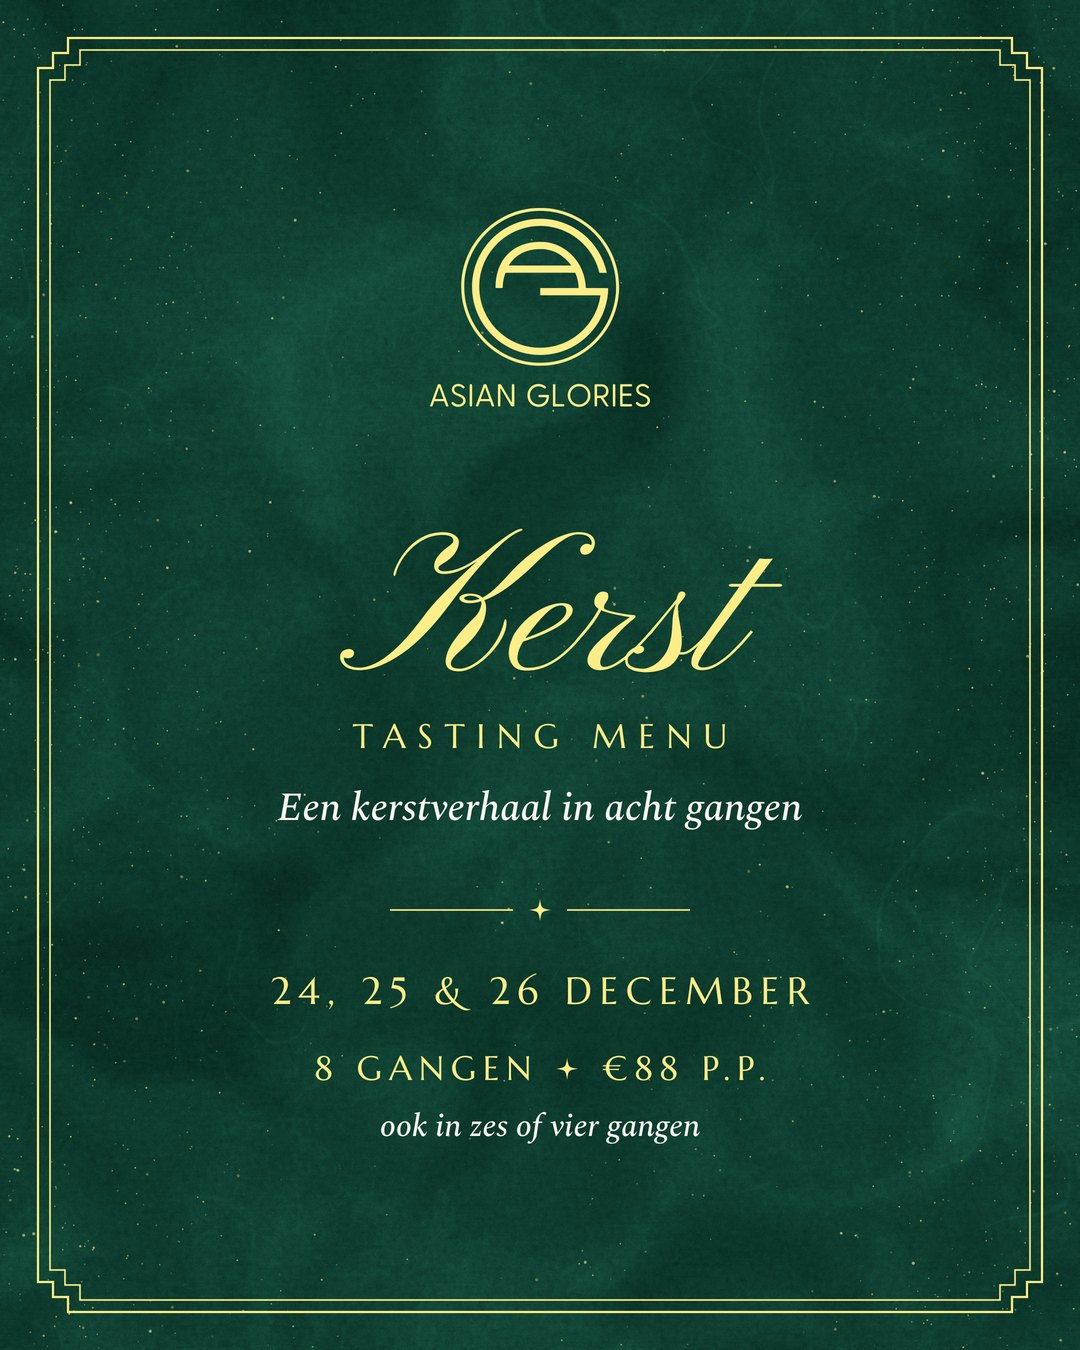
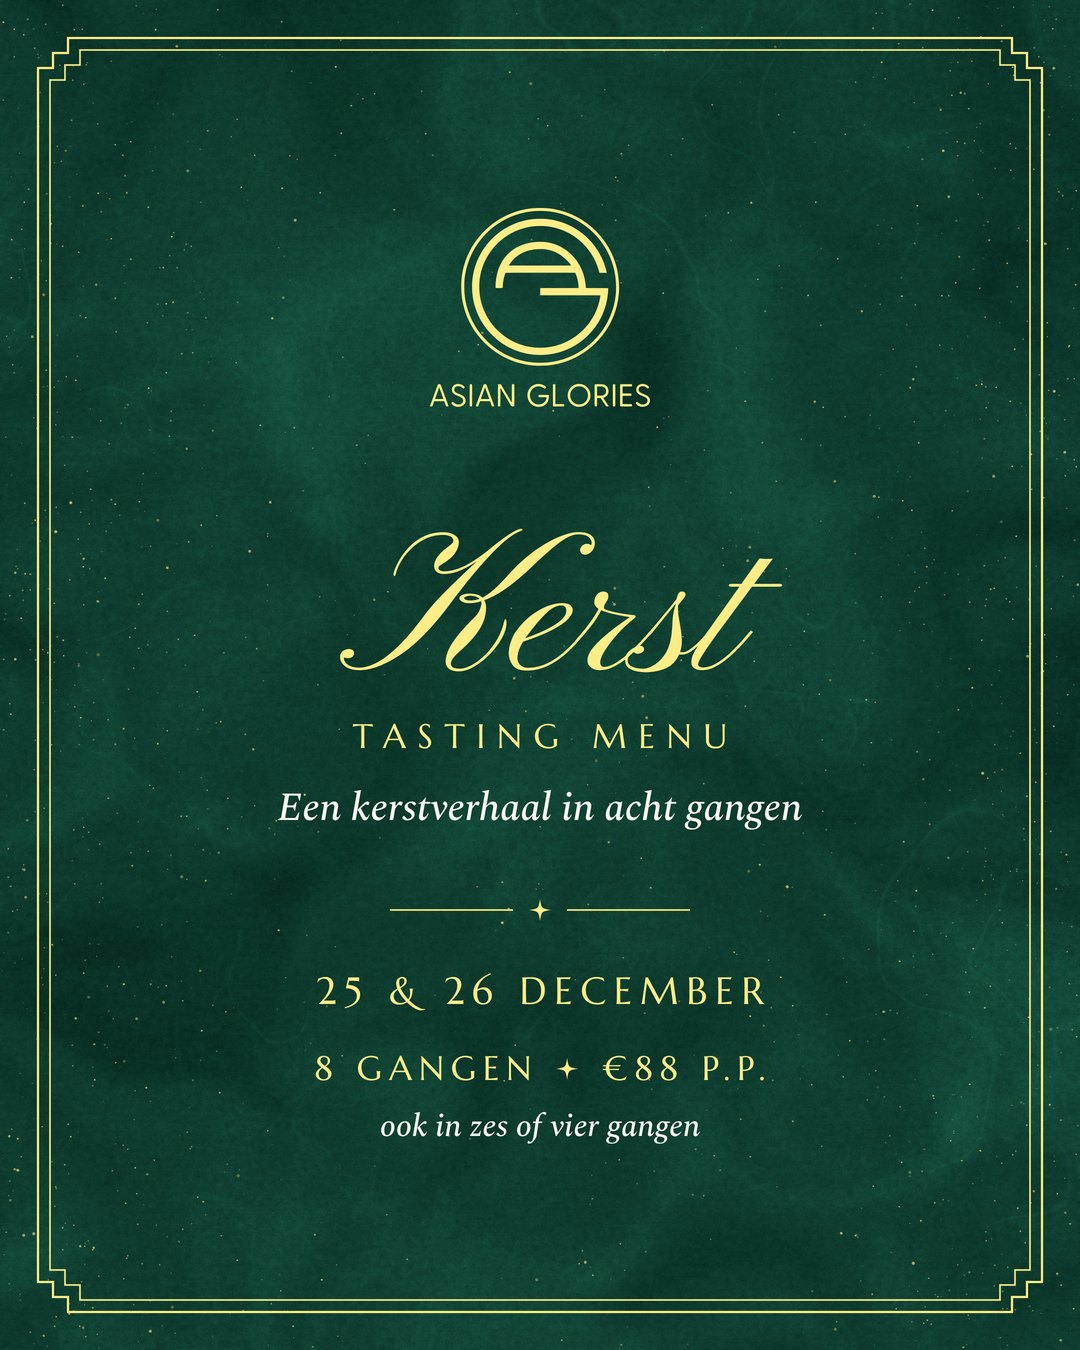
Move Kerst menu to 25-26 December, show closure on 23-24 December

Changed region(s): [[0.2444, 0.7156, 0.7639, 0.7467]]

diff --git a/src/app/kerst/page.tsx b/src/app/kerst/page.tsx
@@ -19,11 +19,11 @@ const spectral = Spectral({
 export const metadata: Metadata = {
   title: 'Kerst Tasting Menu | Asian Glories Rotterdam',
   description:
-    'Op 24, 25 en 26 december serveert Asian Glories een kerstverhaal in acht gangen: van zalmsashimi en dim sum tot Pekingeend. 8 gangen €88 p.p., ook in zes of vier gangen.',
+    'Op eerste en tweede kerstdag, 25 en 26 december, serveert Asian Glories een kerstverhaal in acht gangen: van zalmsashimi en dim sum tot Pekingeend. 8 gangen €88 p.p., ook in zes of vier gangen.',
   alternates: { canonical: '/kerst' },
   openGraph: {
     title: 'Kerst Tasting Menu | Asian Glories Rotterdam',
-    description: 'Een kerstverhaal in acht gangen. 24, 25 en 26 december.',
+    description: 'Een kerstverhaal in acht gangen. 25 en 26 december.',
     images: ['/images/kerst-og.jpg'],
   },
 };
@@ -44,7 +44,7 @@ const eventSchema = {
   '@type': 'Event',
   name: 'Kerst Tasting Menu bij Asian Glories',
   description: 'Een kerstverhaal in acht gangen, ook in zes of vier gangen.',
-  startDate: '2026-12-24',
+  startDate: '2026-12-25',
   endDate: '2026-12-26',
   eventAttendanceMode: 'https://schema.org/OfflineEventAttendanceMode',
   location: {
@@ -106,7 +106,7 @@ export default function KerstPage() {
       {/* HERO */}
       <header className="k-hero">
         <div className="k-hero__inner">
-          <p className="k-caps k-hero__date rv">24, 25 &amp; 26 december</p>
+          <p className="k-caps k-hero__date rv">25 &amp; 26 december</p>
           <h1 className="k-script k-hero__title rv d1">Kerst</h1>
           <p className="k-caps k-hero__sub rv d2">Tasting menu</p>
           <p className="k-ital k-hero__tag rv d2">Een kerstverhaal in acht gangen</p>
@@ -127,7 +127,7 @@ export default function KerstPage() {
           <div className="k-intro__inner">
             <p className="k-label rv">Kerst bij Asian Glories</p>
             <p className="k-intro__lead rv d1">
-              Op kerstavond, eerste en tweede kerstdag vertellen wij een verhaal in{' '}
+              Op eerste en tweede kerstdag vertellen wij een verhaal in{' '}
               <em>acht gangen</em>.
             </p>
             <p className="k-intro__body rv d2">
@@ -139,7 +139,7 @@ export default function KerstPage() {
             <div className="k-facts">
               <div className="k-fact rv">
                 <p className="k-fact__k">Wanneer</p>
-                <p className="k-fact__v">24, 25 en 26 december</p>
+                <p className="k-fact__v">25 en 26 december</p>
               </div>
               <div className="k-fact rv d1">
                 <p className="k-fact__k">Acht gangen</p>
@@ -219,8 +219,9 @@ export default function KerstPage() {
               Reserveer uw <em>kersttafel</em>
             </h2>
             <p className="k-res__text rv d2">
-              Reserveren gaat via de groene reserveringsknop rechtsonder op deze pagina. Kies 24, 25
-              of 26 december en uw aantal personen. Het kerstmenu kiest u gewoon aan tafel.
+              Reserveren gaat via de groene reserveringsknop rechtsonder op deze pagina. Kies 25 of 26
+              december en uw aantal personen. Het kerstmenu kiest u gewoon aan tafel. Let op: op 23
+              en 24 december zijn wij gesloten.
             </p>
             <div className="k-how rv d3">
               <span className="k-how__arrow" aria-hidden="true">
@@ -228,7 +229,7 @@ export default function KerstPage() {
               </span>
               <div>
                 <p className="k-how__label">Gebruik de reserveringsknop rechtsonder</p>
-                <p className="k-how__sub">Kies 24, 25 of 26 december</p>
+                <p className="k-how__sub">Kies 25 of 26 december</p>
               </div>
             </div>
             <p className="k-res__pdf rv d4">

diff --git a/src/lib/i18n.tsx b/src/lib/i18n.tsx
@@ -281,13 +281,13 @@ const DICT: Dict = {
   'press.eyebrow': { nl: 'In de pers', en: 'In the press' },
 
   // Kerst popup (until 26 December 2026)
-  'kerstpop.eyebrow': { nl: '24, 25 & 26 december', en: '24, 25 & 26 December' },
+  'kerstpop.eyebrow': { nl: '25 & 26 december', en: '25 & 26 December' },
   'kerstpop.title': { nl: 'Kerst bij Asian Glories', en: 'Christmas at Asian Glories' },
   'kerstpop.body': {
     nl:
-      'Een kerstverhaal in acht gangen, van zalmsashimi tot Pekingeend. Ook in zes of vier gangen.',
+      'Een kerstverhaal in acht gangen, van zalmsashimi tot Pekingeend. Ook in zes of vier gangen. Op 23 en 24 december zijn wij gesloten.',
     en:
-      'A Christmas story in eight courses, from salmon sashimi to Peking duck. Also available in six or four courses.',
+      'A Christmas story in eight courses, from salmon sashimi to Peking duck. Also available in six or four courses. We are closed on 23 and 24 December.',
   },
   'kerstpop.btn': { nl: 'Bekijk het kerstmenu', en: 'View the Christmas menu' },
   'kerstpop.close': { nl: 'Sluiten', en: 'Close' },

diff --git a/src/components/OpeningHoursRows.tsx b/src/components/OpeningHoursRows.tsx
@@ -1,11 +1,11 @@
 'use client';
 
-import { useT } from '@/lib/i18n';
-import { formatRange, WEEK_HOURS } from '@/lib/hours';
+import { useI18n } from '@/lib/i18n';
+import { activeClosures, formatRange, WEEK_HOURS } from '@/lib/hours';
 
 /** The seven opening-hours rows used on the home and reserveer pages. */
 export default function OpeningHoursRows() {
-  const t = useT();
+  const { t, locale } = useI18n();
   return (
     <>
       {WEEK_HOURS.map((d) => (
@@ -13,6 +13,11 @@ export default function OpeningHoursRows() {
           <span>{t(`day.${d.day}`)}</span>
           <span>{d.opens ? `${formatRange(d)}${d.mark ? ' *' : ''}` : t('day.closed')}</span>
         </div>
+      ))}
+      {activeClosures().map((c) => (
+        <p key={c.from} style={{ marginTop: 14, fontSize: 16, fontWeight: 500 }}>
+          {c[locale]}
+        </p>
       ))}
     </>
   );

diff --git a/src/app/layout.tsx b/src/app/layout.tsx
@@ -4,7 +4,7 @@ import LoadingCurtain from '@/components/LoadingCurtain';
 import ZenchefWidget from '@/components/ZenchefWidget';
 import ChristmasNotice from '@/components/ChristmasNotice';
 import { I18nProvider } from '@/lib/i18n';
-import { WEEK_HOURS } from '@/lib/hours';
+import { activeClosures, WEEK_HOURS } from '@/lib/hours';
 import './globals.css';
 
 export const viewport: Viewport = {
@@ -94,6 +94,14 @@ export default function RootLayout({
         opens: d.opens,
         closes: d.closes,
       })),
+    // Google reads opens = closes = 00:00 as closed all day.
+    specialOpeningHoursSpecification: activeClosures().map((c) => ({
+      '@type': 'OpeningHoursSpecification',
+      opens: '00:00',
+      closes: '00:00',
+      validFrom: c.from,
+      validThrough: c.to,
+    })),
   };
 
   return (

diff --git a/src/components/ChristmasNotice.tsx b/src/components/ChristmasNotice.tsx
@@ -5,7 +5,7 @@ import Link from 'next/link';
 import { useT } from '@/lib/i18n';
 
 /**
- * Site-wide announcement of the Kerst tasting menu (24, 25 and 26 December
+ * Site-wide announcement of the Kerst tasting menu (25 and 26 December
  * 2026), linking to /kerst. Reuses the closure-* dialog styles in globals.css.
  *
  * - Shows at most once per 8 days per visitor (timestamp in localStorage,
@@ -14,7 +14,7 @@ import { useT } from '@/lib/i18n';
  * - Skipped on the /kerst page itself.
  * - Waits a beat so the LoadingCurtain can finish before the dialog fades in.
  */
-const STORAGE_KEY = 'ag-notice-kerst-2026';
+const STORAGE_KEY = 'ag-notice-kerst-2026-v2';
 const HIDE_AFTER = new Date('2026-12-27T00:00:00+01:00');
 const REPEAT_AFTER_MS = 8 * 24 * 60 * 60 * 1000;
 const SHOW_DELAY_MS = 2600;

diff --git a/src/lib/hours.ts b/src/lib/hours.ts
@@ -24,6 +24,21 @@ export const WEEK_HOURS: DayHours[] = [
   { day: 'sun', schemaDay: 'Sunday', opens: '12:00', closes: '21:00', mark: true },
 ];
 
+/** One-off closures, shown under the hours and sent to Google until they have passed. */
+export const CLOSURES = [
+  {
+    from: '2026-12-23',
+    to: '2026-12-24',
+    until: new Date('2026-12-25T00:00:00+01:00'),
+    nl: 'Op 23 en 24 december zijn wij gesloten.',
+    en: 'We are closed on 23 and 24 December.',
+  },
+];
+
+export function activeClosures(now: Date = new Date()) {
+  return CLOSURES.filter((c) => now < c.until);
+}
+
 export function formatRange(d: DayHours): string {
   return `${d.opens} \u2013 ${d.closes}`;
 }
